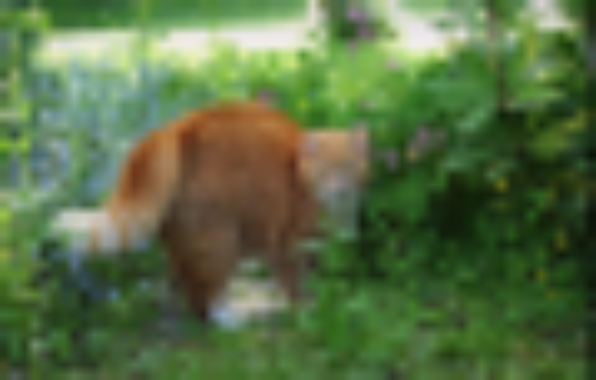
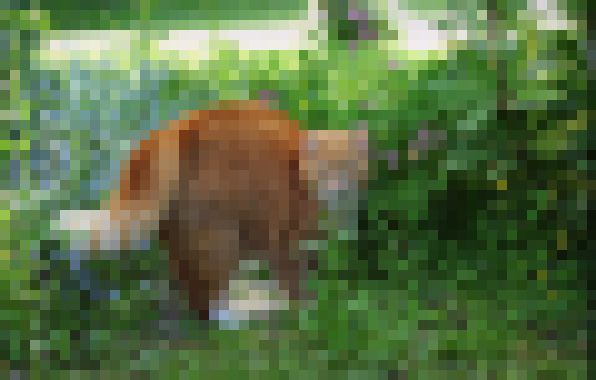
avg, max, median pool

diff --git a/pooling_or_block_reduce/pooling.py b/pooling_or_block_reduce/pooling.py
@@ -7,20 +7,21 @@ import skimage.measure
 def skimage_reduce(img):
 
 	h,w,c = img.shape
-	block_size= (10,10,1)
 	#block_size= (40,40,1)
-	#block_size= (h,w,1)
+	#block_size= (40,40,1)
+	block_size= (h,w,1)
 	print(block_size)
 
-	#reduced = skimage.measure.block_reduce(img, block_size, np.max)
-	reduced = skimage.measure.block_reduce(img, block_size, np.average)
+	reduced = skimage.measure.block_reduce(img, block_size, np.max)
+	#reduced = skimage.measure.block_reduce(img, block_size, np.average)
+	#reduced = skimage.measure.block_reduce(img, block_size, np.median)
 
 
 	# 'numpy.float64' object cannot be interpreted as an integer
 	reduced = reduced.astype(np.uint8)
 
 
-	reduced = cv2.resize(reduced,(w,h))
+	reduced = cv2.resize(reduced,(w,h), interpolation = cv2.INTER_NEAREST)
 	cv2.imshow("reduced",reduced)
 	cv2.imshow("img",img)
 	cv2.waitKey(0)

diff --git a/pooling_or_block_reduce/README.md b/pooling_or_block_reduce/README.md
@@ -12,6 +12,8 @@ https://keras.io/api/layers/
 ```
 <p align="center"> <img src="cat.jpg"  width = 40%  /> </p>
 
-		avgpooling, maxpooling, medianpooling
-<p align="center"> <img src="avgpool10x.png"  width = 20%  /><img src="maxpool10x.png"  width = 20%  /><img src="medianpool10x.png"  width = 20%  />   </p>
+		avgpooling, maxpooling, medianpooling 10x block, 40x and fool sized
+<p align="center"> <img src="avgpool10x.png"  width = 20%  /><img src="maxpool10x.png"  width = 20%  /><img src="medianpool10x.png"             width = 20%  /> </p>
+<p align="center"> <img src="avgpool40x.png"  width = 20%  /><img src="maxpool40x.png"  width = 20%  /><img src="medianpool40x.png"             width = 20%  /> </p>
+<p align="center"> <img src="avgpoolfoolsize.png"  width = 20%  /><img src="maxpoolfoolsize.png"  width = 20%  /><img src="medianpoolfoolsize.png"             width = 20%  /> </p>
 
